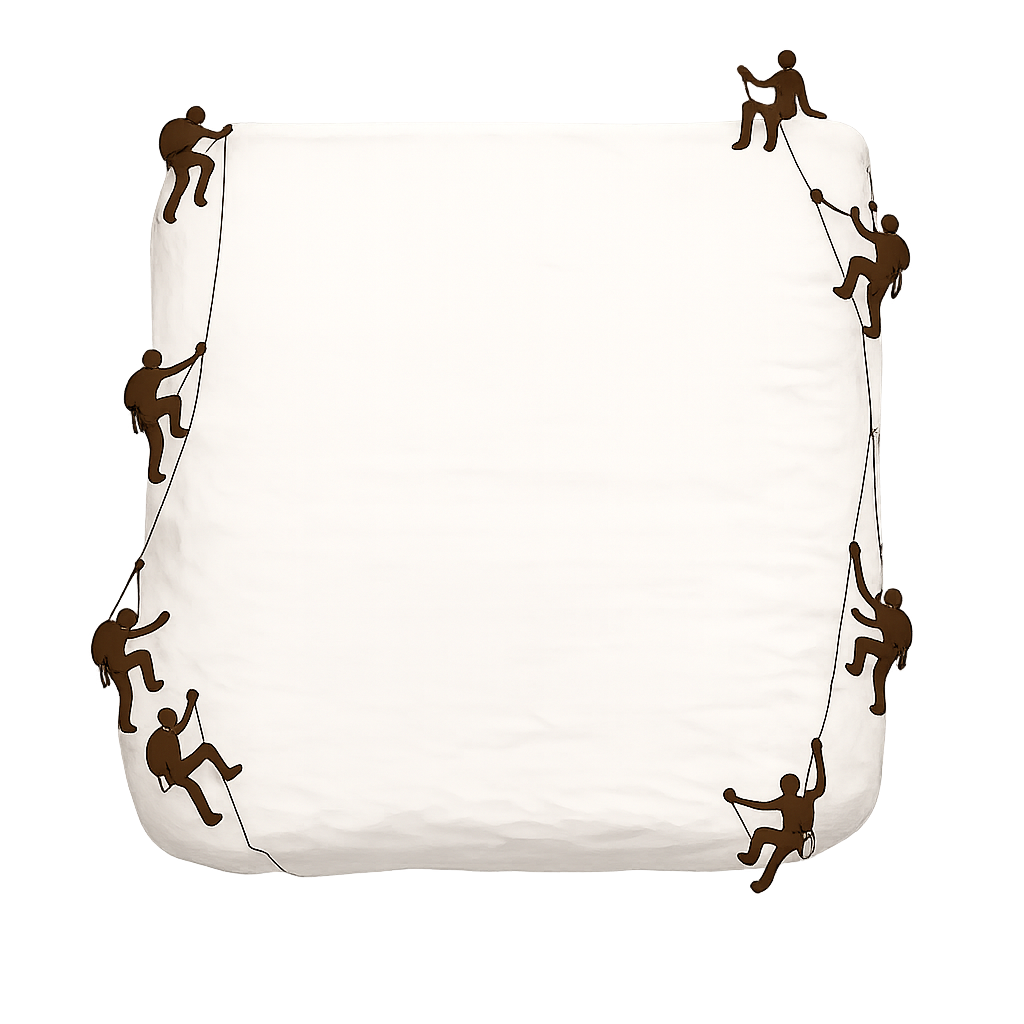
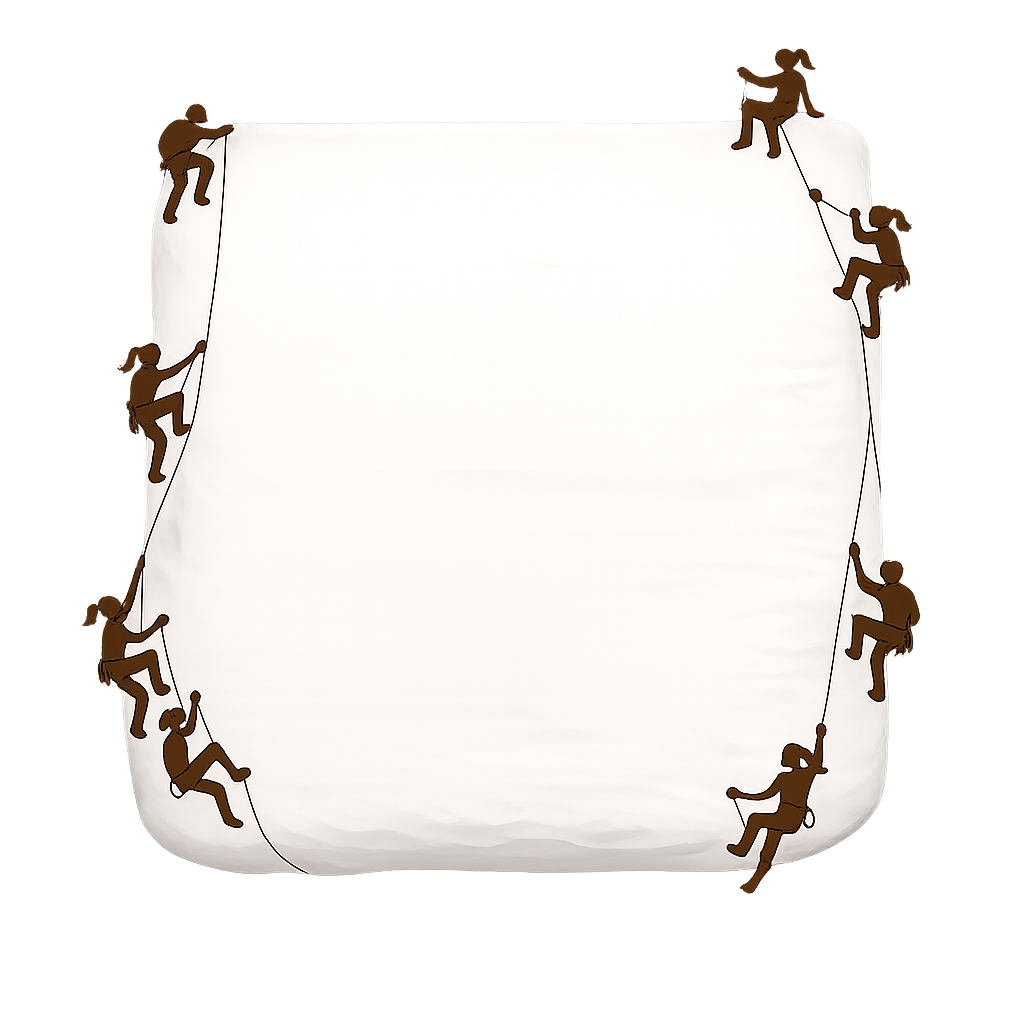
streamlined logging into spotify

diff --git a/src/main.js b/src/main.js
@@ -1,5 +1,5 @@
 import * as auth from './login/authenticate.js';
-import { getTrackByNumber } from './tracks.js';
+import { loadTracksOnline, getTrackByNumber } from './tracks.js';
 
 import { renderUnauthenticatedView } from './views/unauthenticated.js';
 import { renderDashboardView } from './views/dashboard.js';
@@ -69,21 +69,30 @@ function handlePlayerStateChange(state) {
 }
 
 // --- MAIN APPLICATION ROUTER ---
-async function main() {
+async function initApp() {
+  // 1. Fetch live tracks CSV from GitHub online
+  await loadTracksOnline();
+
+  // 2. Check auth status & URL search params (checks both ?song= and ?card=)
   const authState = await auth.checkAuth();
   const urlParams = new URLSearchParams(window.location.search);
-  const songNumber = urlParams.get('song');
+  const songNumber = urlParams.get('song') || urlParams.get('card');
 
   // Clear External Mount Zone
   if (externalMount) externalMount.innerHTML = '';
 
   // STATE 1: Unauthenticated
   if (!authState.authenticated) {
+    // If a card was scanned before logging in, remember it!
+    if (songNumber) {
+      sessionStorage.setItem('pending_song', songNumber);
+      window.history.replaceState({}, document.title, window.location.pathname);
+    }
     renderUnauthenticatedView(cardMount, () => auth.login('spotify'));
     return;
   }
 
-  // STATE 3: Active Card Player
+  // STATE 2: Active Card Player
   if (songNumber) {
     const trackData = getTrackByNumber(songNumber);
     if (!trackData) return;
@@ -110,16 +119,20 @@ async function main() {
       revealBtn.textContent = isHidden ? 'Reveal Track Info' : 'Hide Track Info';
     });
 
+    // Clean SDK Initialization — Play button enables when player is ready!
     await auth.initPlayer(
-      () => { if (playBtn) playBtn.disabled = false; },
+      () => { 
+        if (playBtn) playBtn.disabled = false; 
+      },
       (err) => { console.error(err); },
       handlePlayerStateChange
     );
   } 
-  // STATE 2: Authenticated Dashboard (Card Selection)
+  // STATE 3: Authenticated Dashboard (Opened homepage or no card active)
   else {
     renderDashboardView(cardMount, authState.provider);
   }
 }
 
-main();
+// Start the Application
+initApp();

diff --git a/src/tracks.js b/src/tracks.js
@@ -1,8 +1,10 @@
-import csvText from './tracks.csv?raw';
+// Replace with your raw GitHub CSV URL
+const ONLINE_CSV_URL = 'https://raw.githubusercontent.com/gerggz/rocking-around/main/src/tracks.csv';
 
-// Lightweight CSV Parser (handles quotes and commas gracefully)
 function parseCSV(csv) {
   const lines = csv.trim().split(/\r?\n/);
+  if (lines.length < 2) return {};
+  
   const headers = lines[0].split(',').map(h => h.trim());
   const database = {};
 
@@ -10,7 +12,6 @@ function parseCSV(csv) {
     const line = lines[i];
     if (!line) continue;
 
-    // Regex to split on commas while ignoring commas inside quoted strings
     const values = line.match(/(".*?"|[^",\s]+)(?=\s*,|\s*$)/g) || [];
     const cleanValues = values.map(v => v.replace(/^"|"$/g, '').trim());
 
@@ -39,19 +40,25 @@ function parseCSV(csv) {
   return database;
 }
 
-// Export parsed database
-export const TRACK_DATABASE = parseCSV(csvText);
+export let TRACK_DATABASE = {};
 
-/**
- * Gets local song metadata by song number
- */
+export async function loadTracksOnline() {
+  try {
+    const response = await fetch(ONLINE_CSV_URL);
+    if (!response.ok) throw new Error('Failed to fetch tracks CSV');
+    const csvText = await response.text();
+    TRACK_DATABASE = parseCSV(csvText);
+    return TRACK_DATABASE;
+  } catch (err) {
+    console.error('Error loading dynamic tracks:', err);
+    return {};
+  }
+}
+
 export function getTrackByNumber(songNumber) {
   return TRACK_DATABASE[songNumber] || null;
 }
 
-/**
- * Gets the platform-specific ID for a given track number
- */
 export function getPlatformTrackId(songNumber, provider = 'spotify') {
   const song = TRACK_DATABASE[songNumber];
   if (!song) return null;

diff --git a/src/login/authenticate.js b/src/login/authenticate.js
@@ -18,8 +18,20 @@ export async function checkAuth() {
 
   if (code) {
     const token = await spotify.handleCallback(code);
+
+    // 🎯 Check if there was a saved card waiting before login!
+    const pendingSong = sessionStorage.getItem('pending_song');
+    if (pendingSong) {
+      sessionStorage.removeItem('pending_song');
+      // Jump straight to the scanned card!
+      window.location.href = `${window.location.pathname}?song=${pendingSong}`;
+      return { authenticated: true, token, provider: 'spotify' };
+    }
+
     return { authenticated: true, token, provider: 'spotify' };
-  } else if (spotify.getToken()) {
+  } 
+  
+  else if (spotify.getToken()) {
     return { authenticated: true, token: spotify.getToken(), provider: 'spotify' };
   }
 
